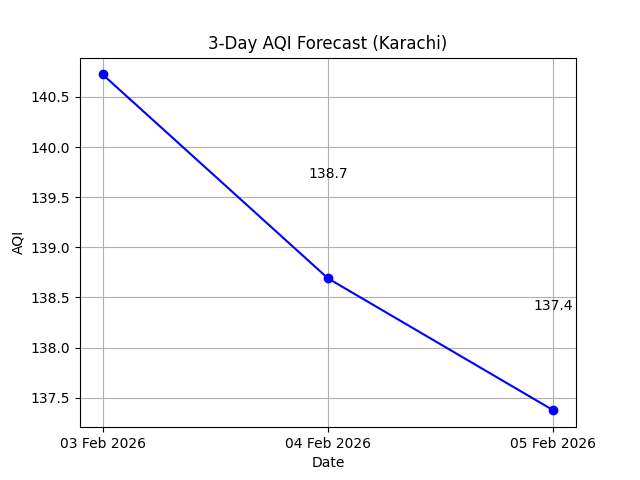
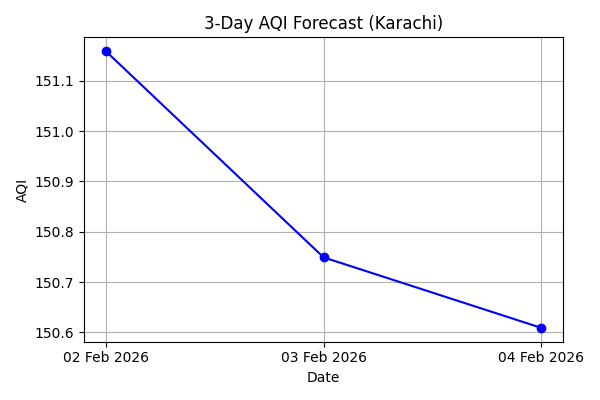
Update app.py to use st.secrets and adjust chart/table

Changed region(s): [[0.0, 0.03, 0.99, 0.99]]

diff --git a/app.py b/app.py
@@ -39,9 +39,10 @@ st.markdown("""
 # =========================
 st.sidebar.title("Model Information")
 st.sidebar.markdown("""
-**Best Model:** XGBoost Regressor  
+**Best Model:** Random Forest Regressor  
 **R² Score:** 0.87  
-**RMSE:** 12.4  
+**RMSE:** 12.4   
+**MAE:** 7.60  
 **Prediction Type:** Recursive 3-Day Forecast  
 **Data Source:** MongoDB Feature Store  
 """)
